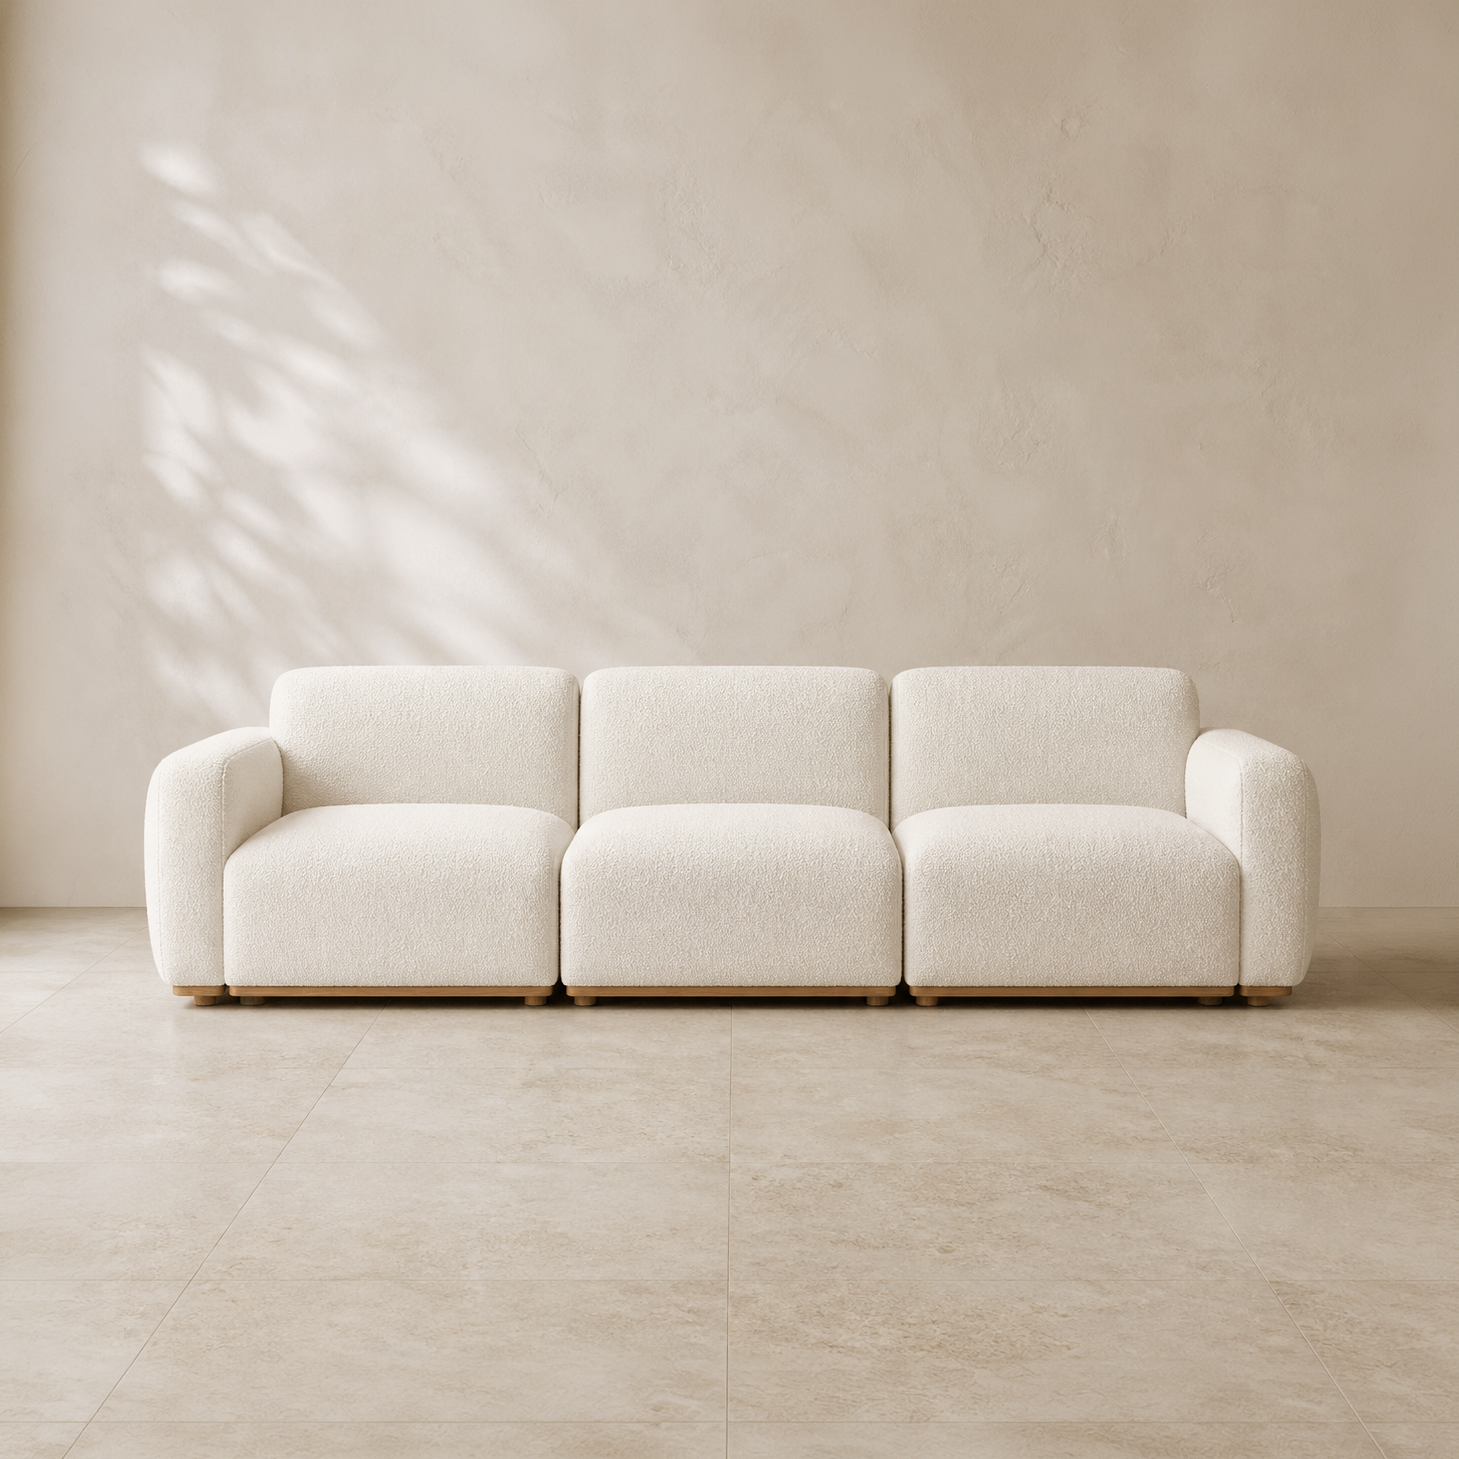
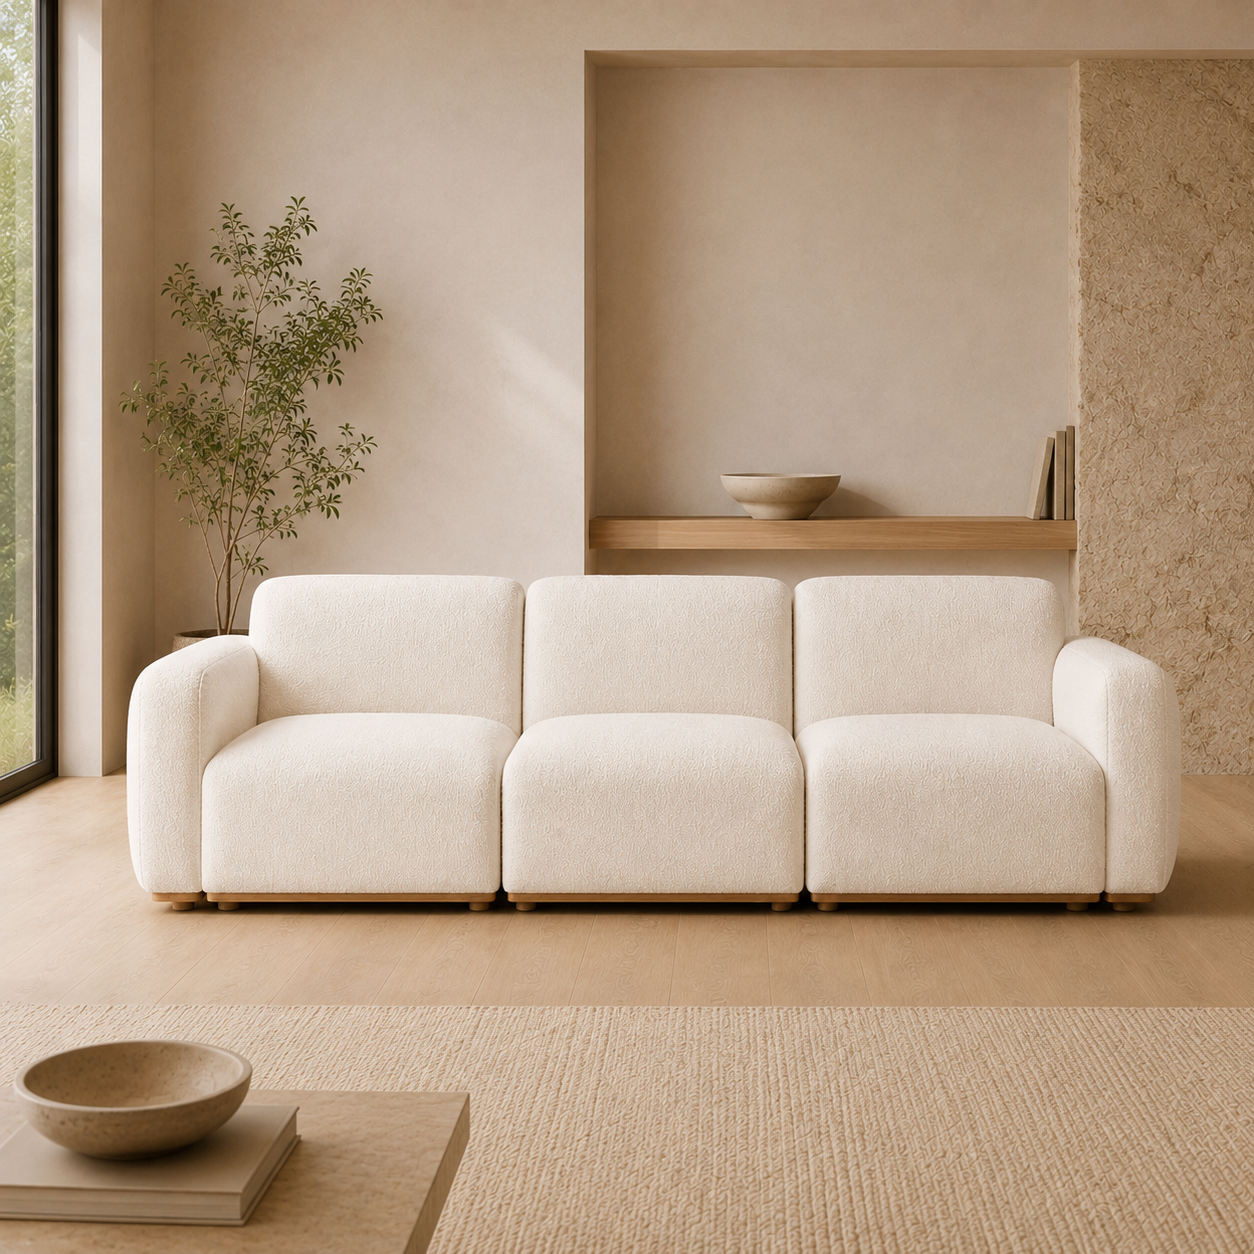
feat(catalog): add Modul sofa gallery

diff --git a/src/modules/catalog/mock-data.ts b/src/modules/catalog/mock-data.ts
@@ -487,7 +487,15 @@ export const products = [
     currency: "BYN",
     image: "/images/sofas/modul-sofa/01-main.png",
     imageAlt: "Светлый трёхместный диван Modul",
-    gallery: [{ src: "/images/sofas/modul-sofa/01-main.png", alt: "Трёхместный диван Modul" }],
+    gallery: [
+      { src: "/images/sofas/modul-sofa/01-main.png", alt: "Трёхместный диван Modul" },
+      { src: "/images/sofas/modul-sofa/02-side.png", alt: "Трёхместный диван Modul" },
+      { src: "/images/sofas/modul-sofa/03-armrest.png", alt: "Трёхместный диван Modul" },
+      { src: "/images/sofas/modul-sofa/04-leg.png", alt: "Трёхместный диван Modul" },
+      { src: "/images/sofas/modul-sofa/05-top.png", alt: "Трёхместный диван Modul" },
+      { src: "/images/sofas/modul-sofa/06-unfolded.png", alt: "Трёхместный диван Modul" },
+      { src: "/images/sofas/modul-sofa/07-main.png", alt: "Трёхместный диван Modul" },
+    ],
     specifications: [
       { label: "Размер", value: "240 × 98 × 72 см" },
       { label: "Модули", value: "3 секции" },
